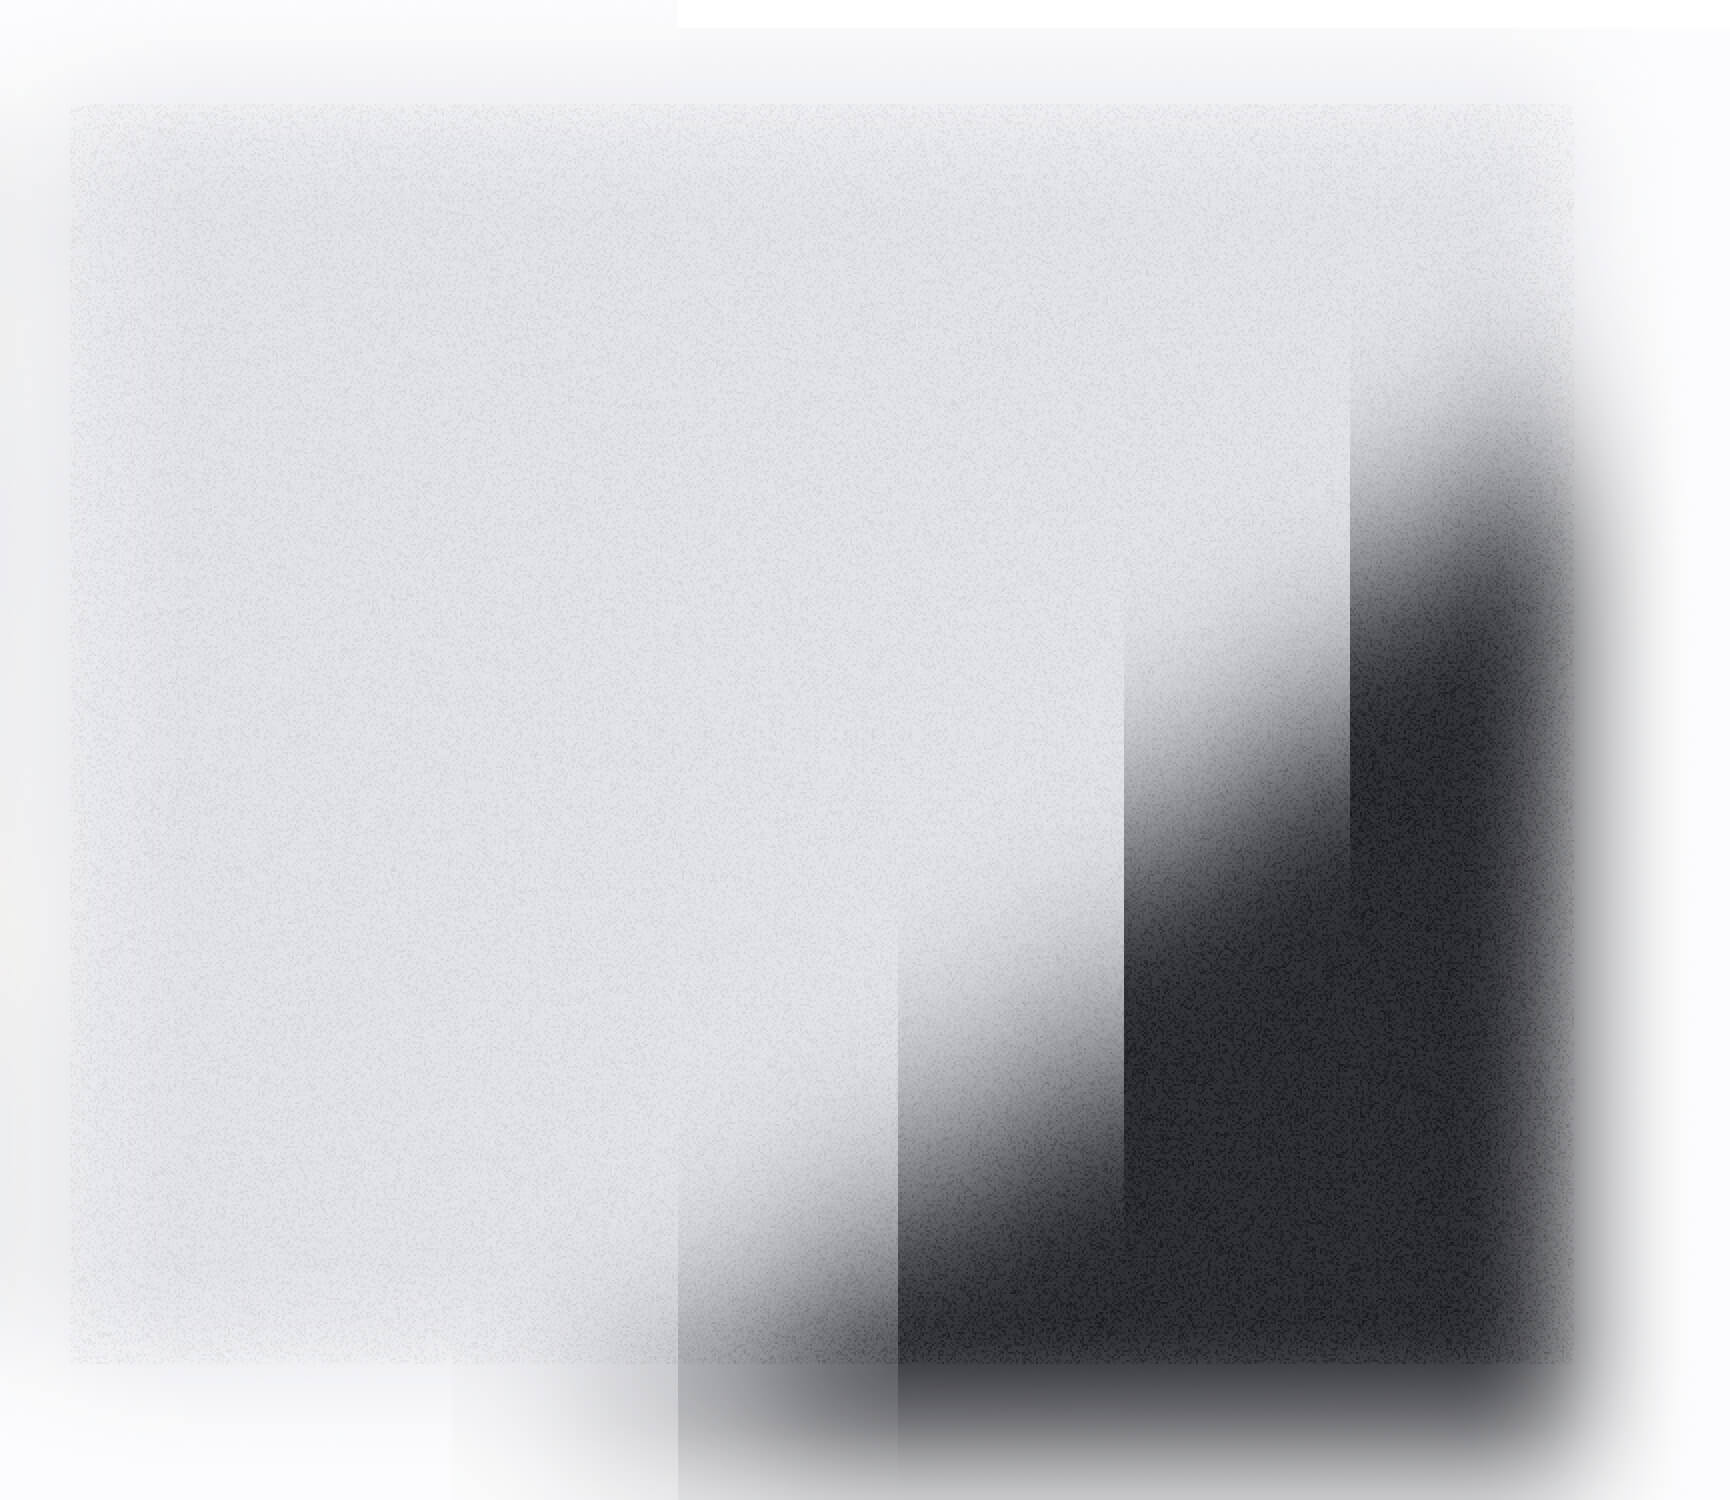
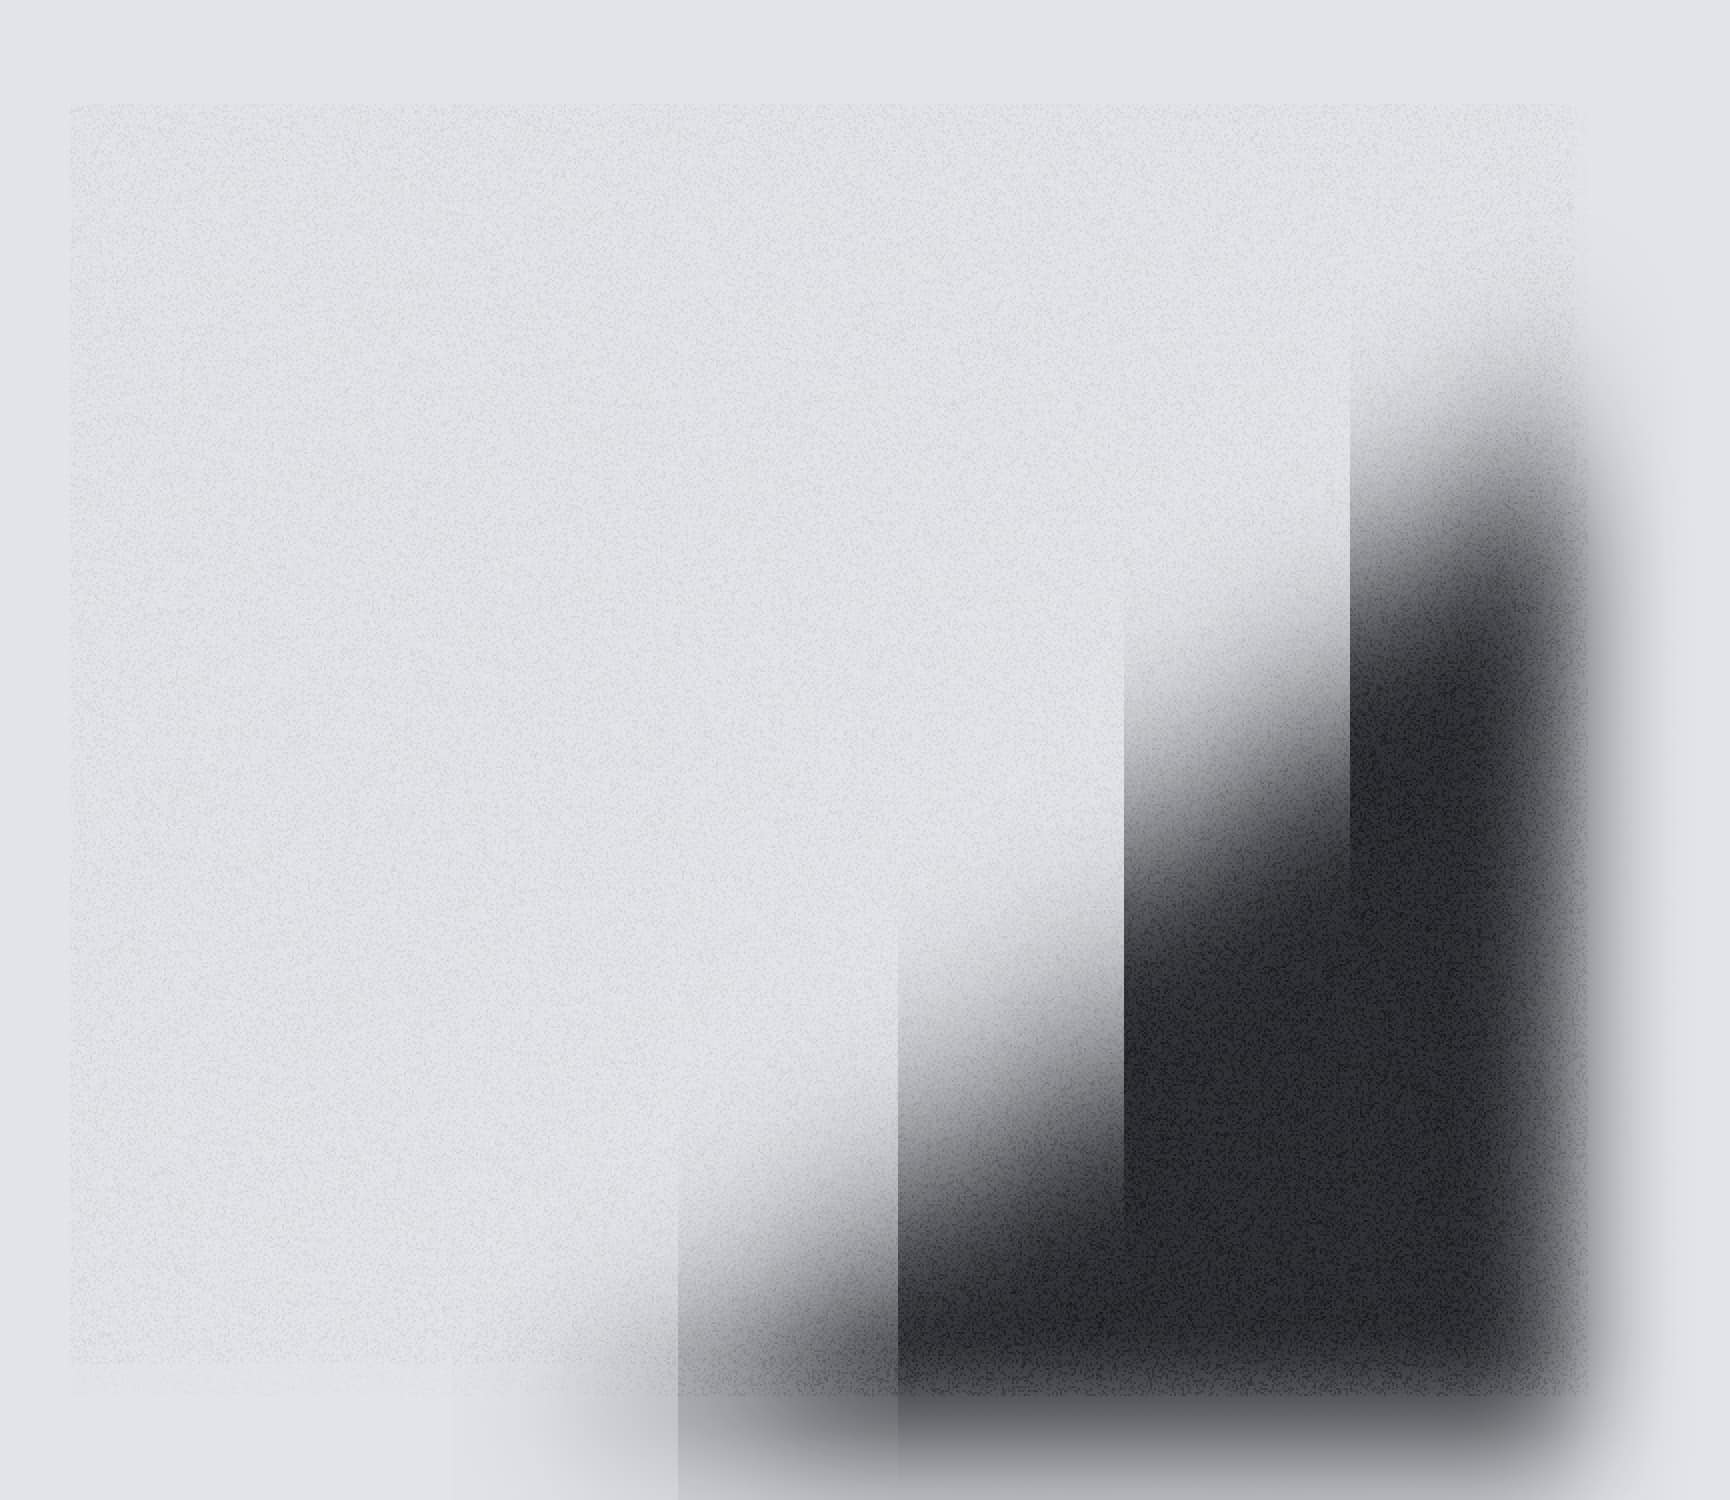
fix: noise crop

Changed region(s): [[0.3746, 0.0, 1.0, 1.0], [0.0, 0.9507, 0.2809, 1.0], [0.0, 0.0, 0.0624, 0.0307]]

diff --git a/src/components/pages/home/CTA/CTA.tsx b/src/components/pages/home/CTA/CTA.tsx
@@ -60,8 +60,8 @@ function CTA() {
             <Image
               className="absolute inset-0 -z-10 h-full w-full translate-x-[19px] scale-[1.15] object-cover object-center lg:translate-x-[34px] md:translate-x-[13px] md:scale-[1.23] sm:translate-y-[-22px] sm:scale-x-[1.33] sm:scale-y-[1.33]"
               src={greyBgImage}
-              width={854}
-              height={854}
+              width={865}
+              height={750}
               alt=""
             />
           </Card>
